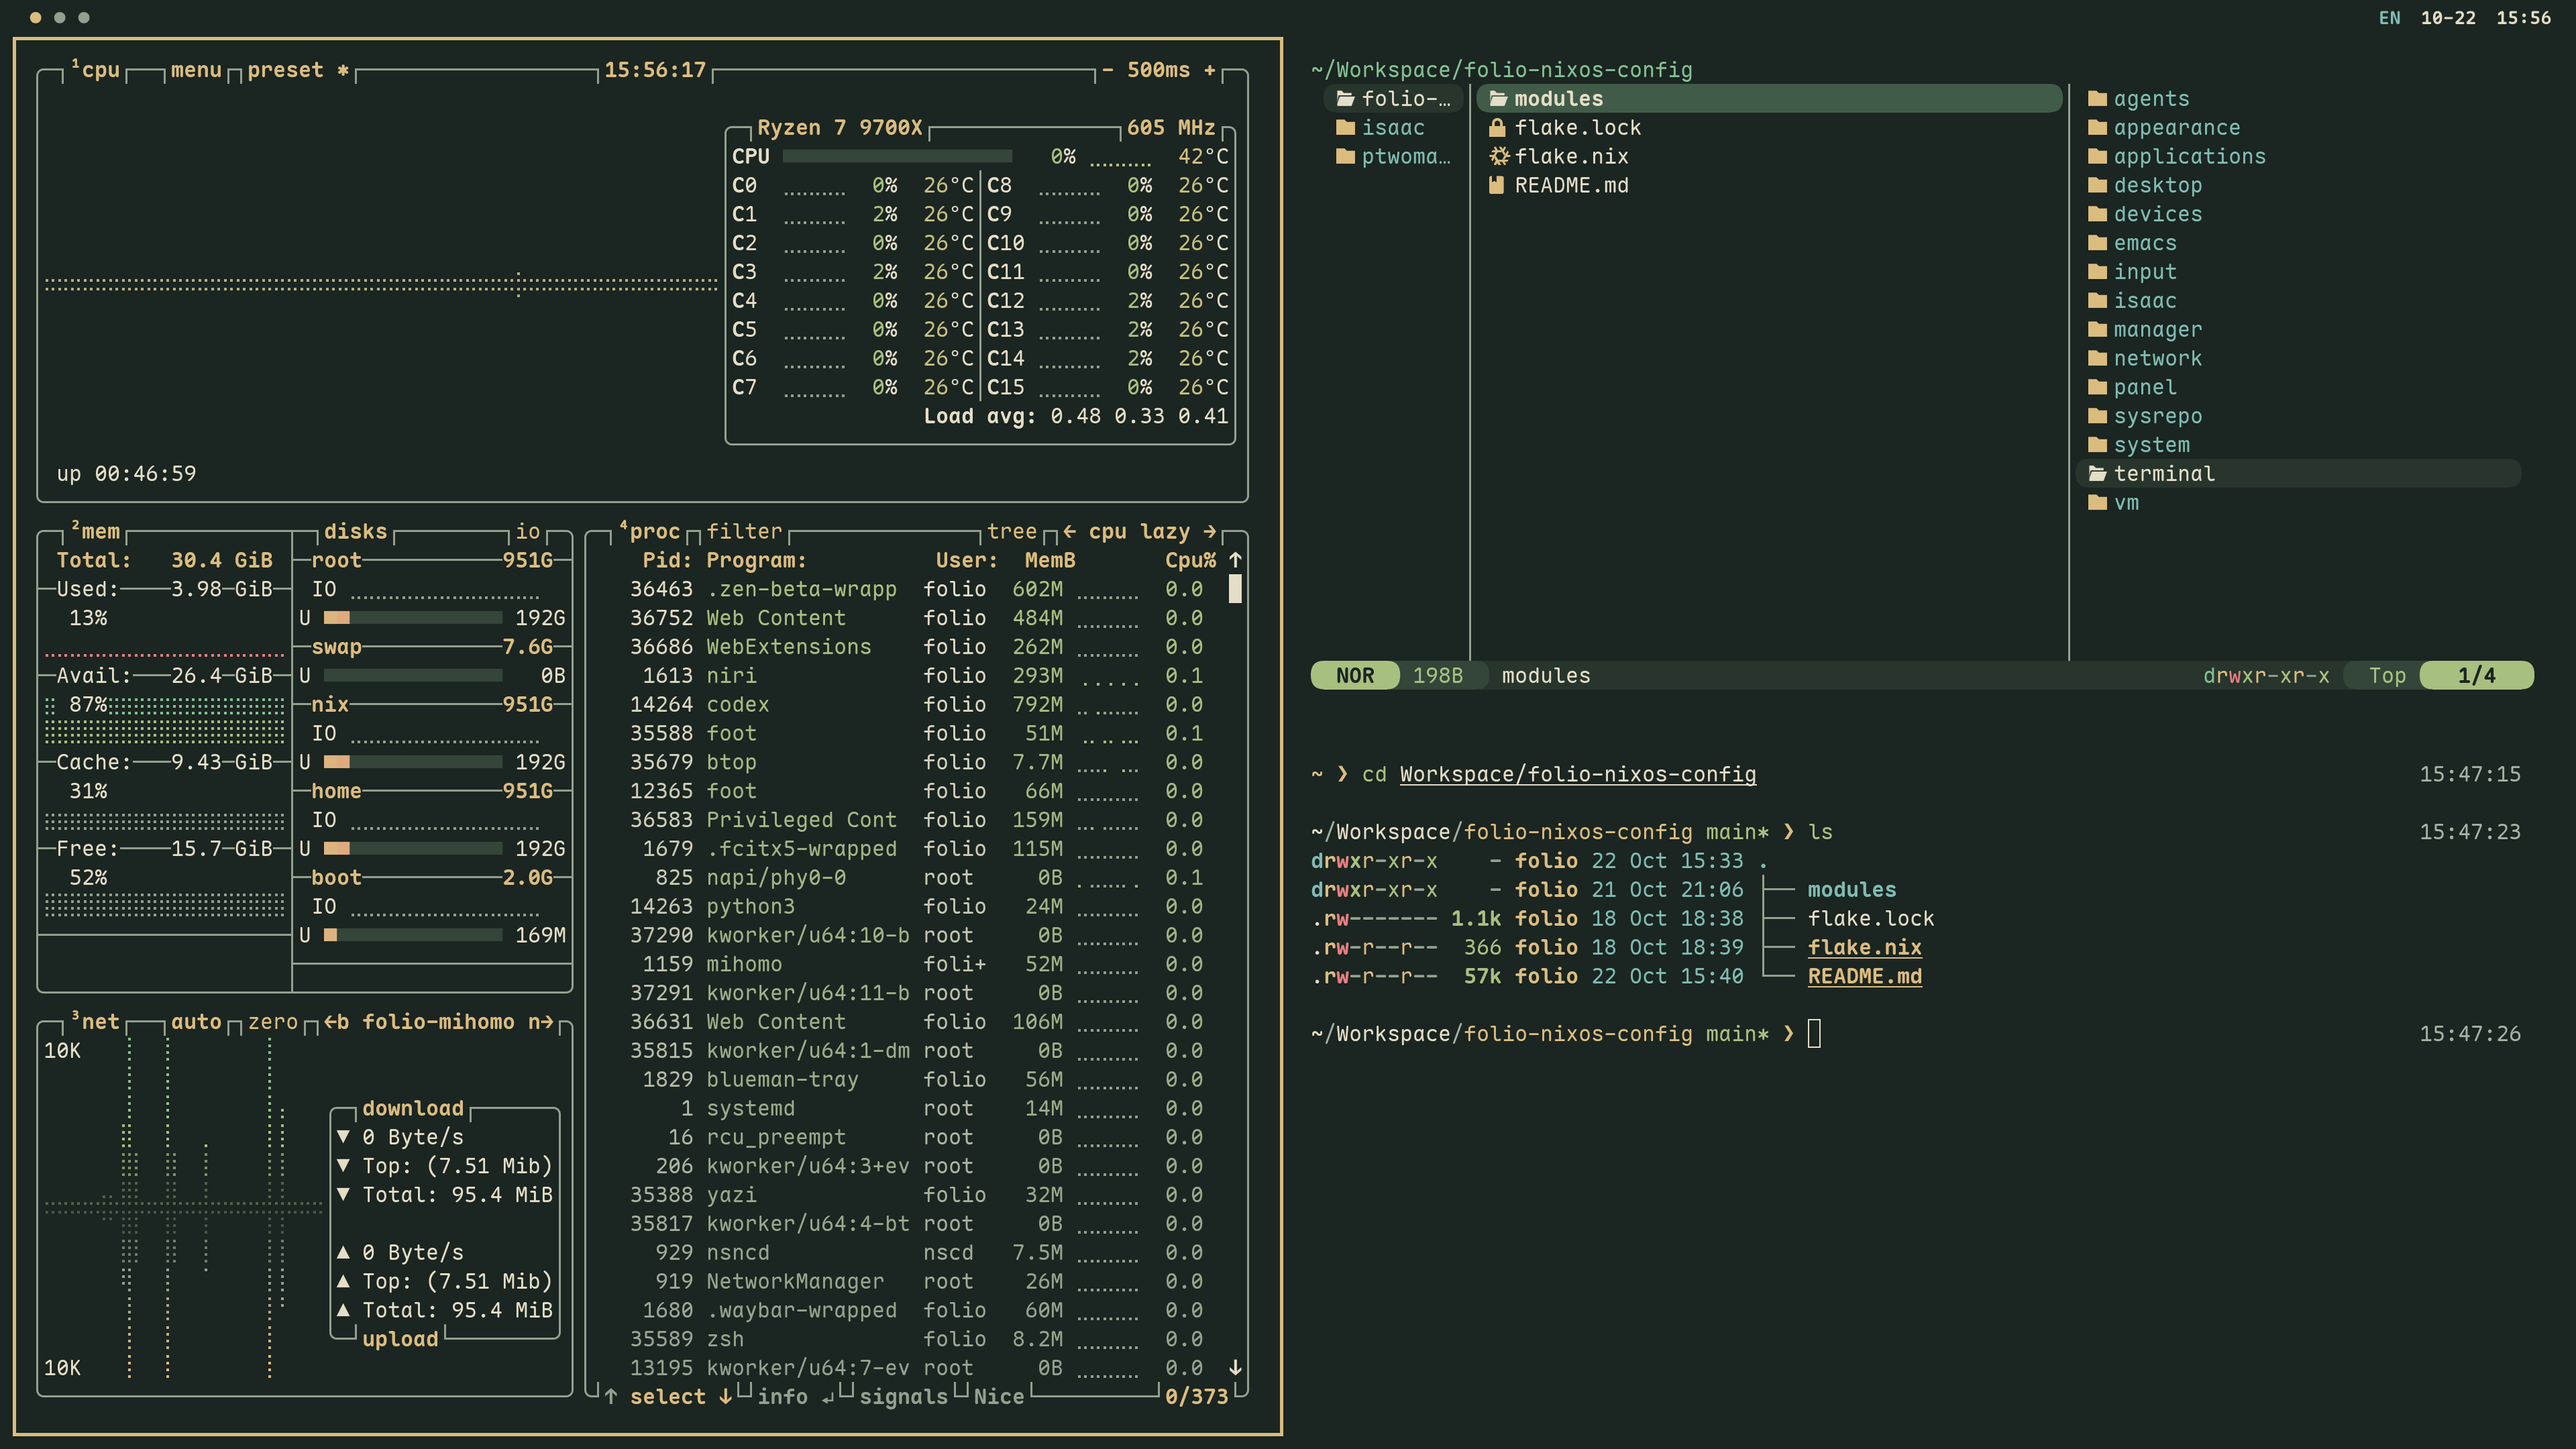
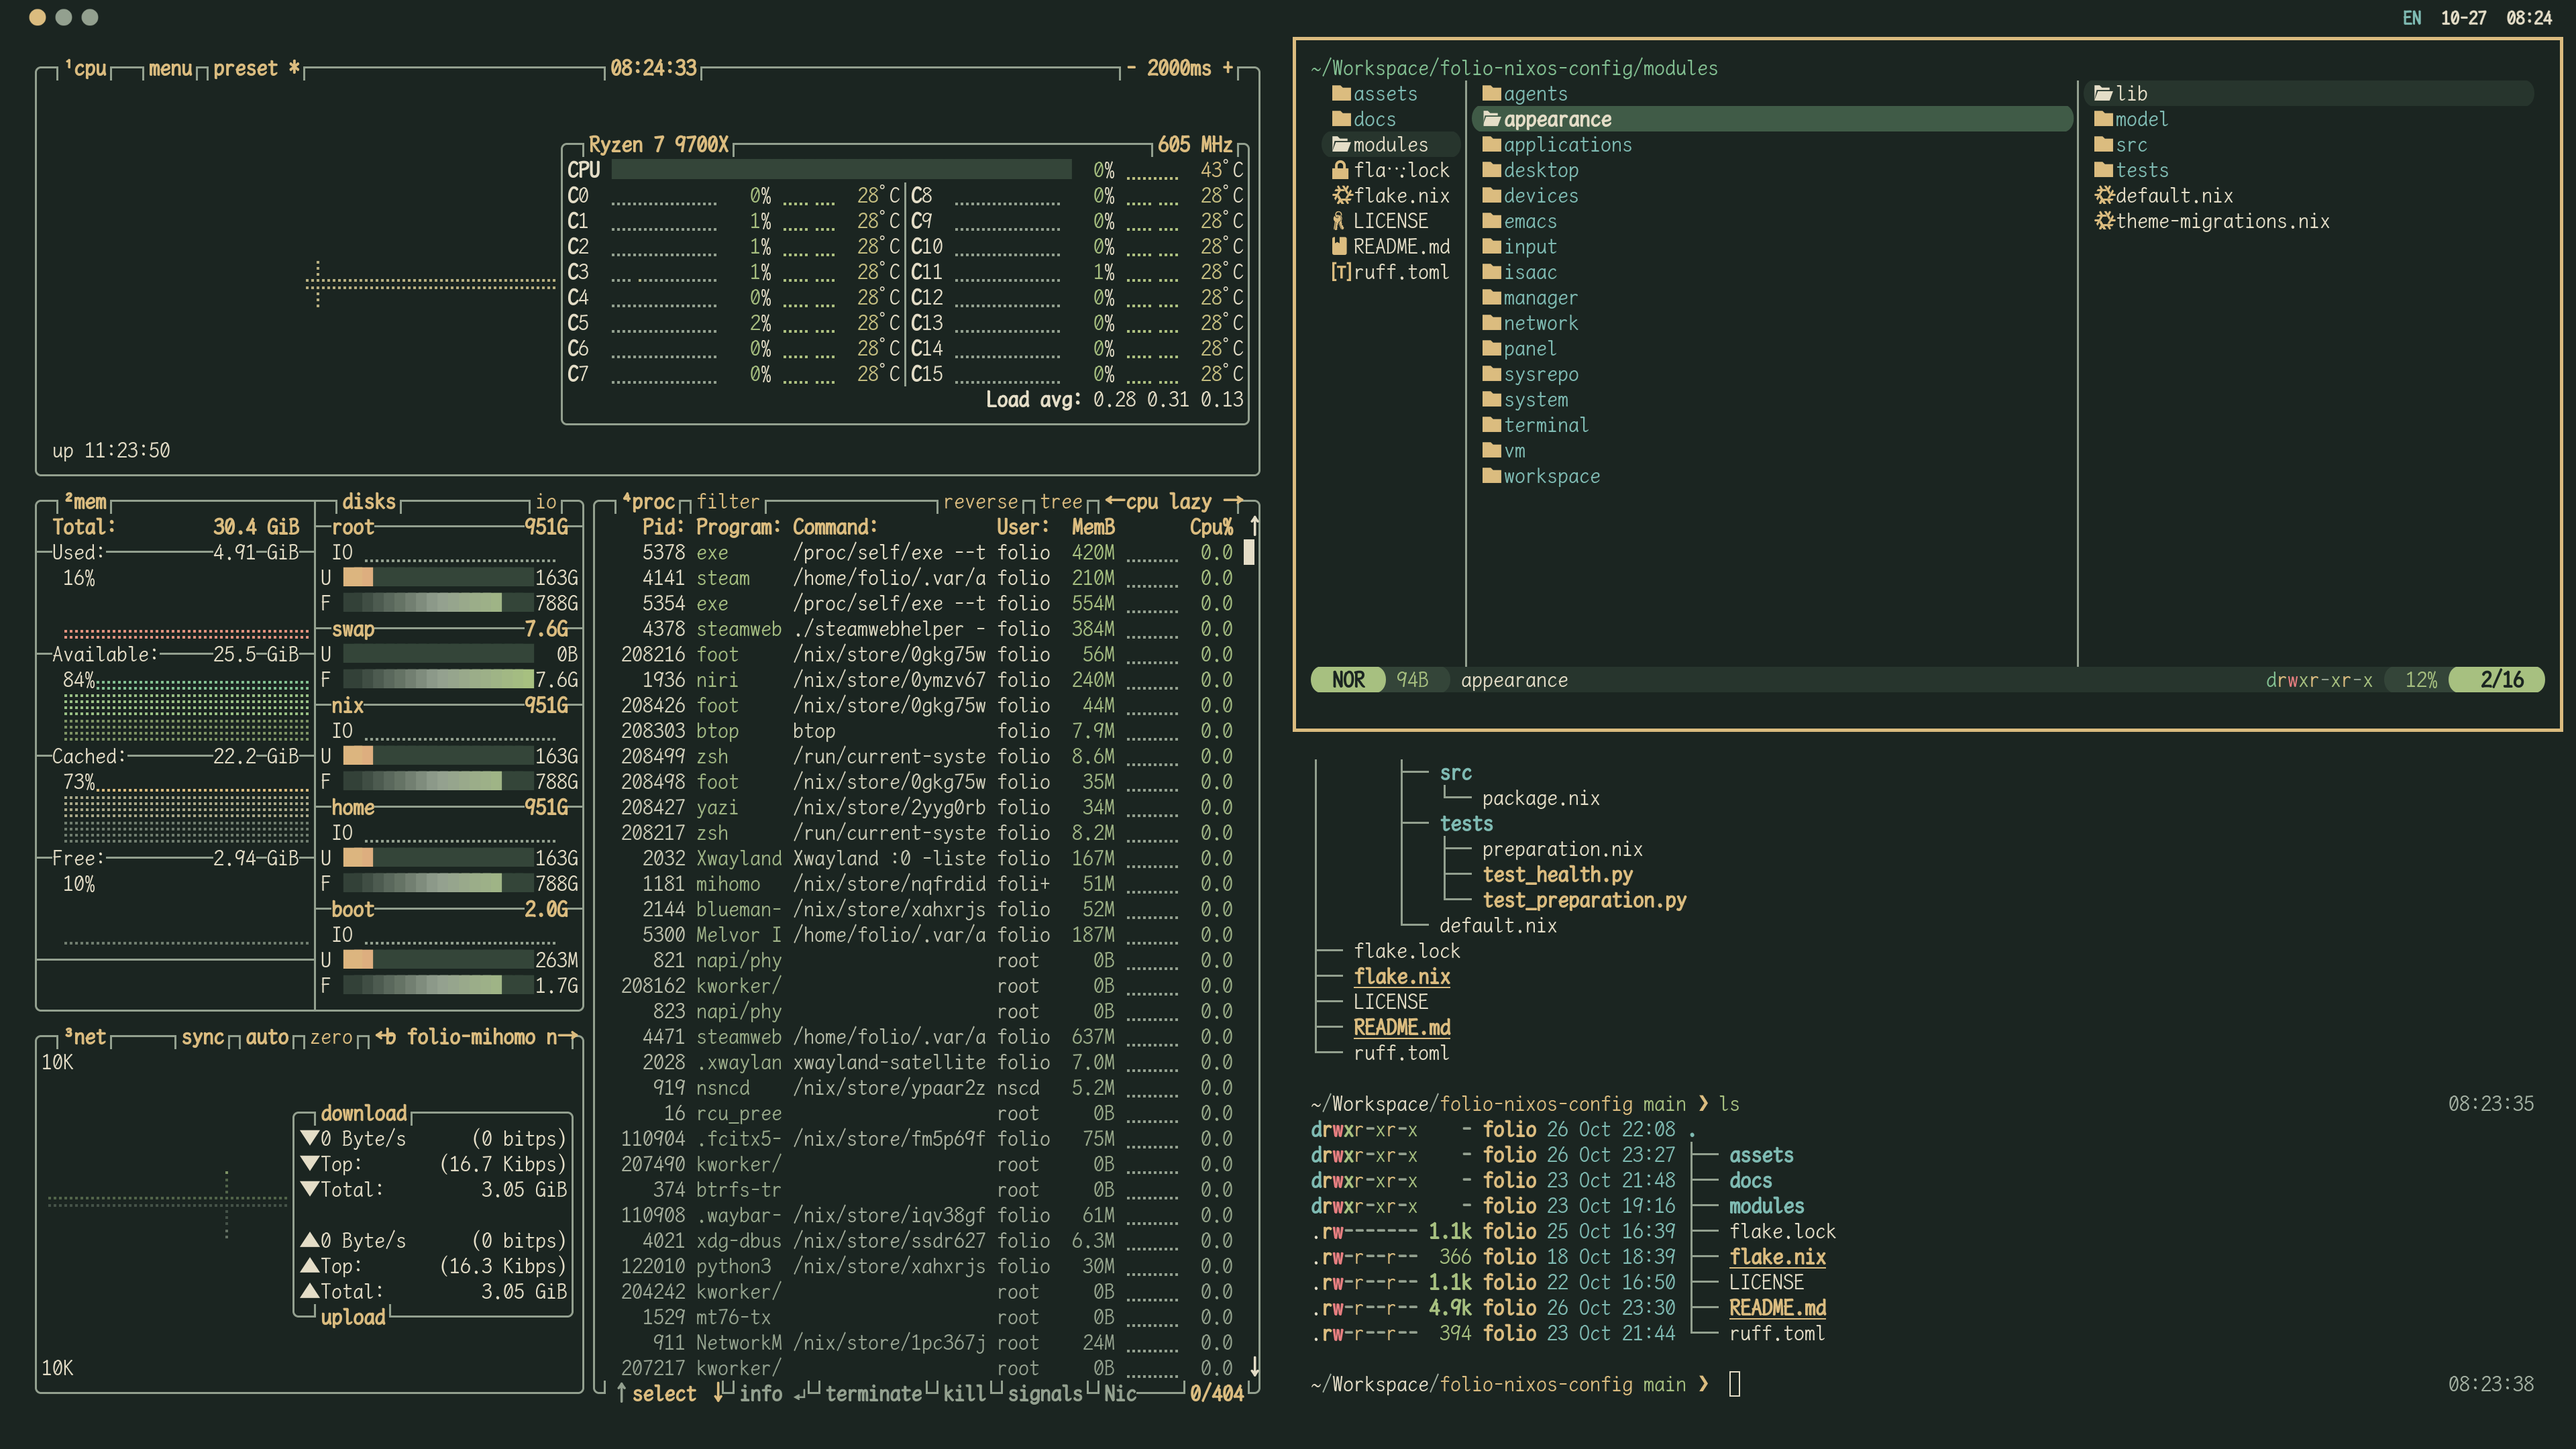
docs: refresh README copy and WenKai desktop preview
Use the October 27 screenshot with LXGW WenKai Mono GB and update its caption and asset record. Refine the Chinese overview, project history and feature descriptions.

diff --git a/README.md b/README.md
@@ -2,7 +2,7 @@
 
 # Folio
 
-**为日常使用打磨的个人 NixOS 桌面。**
+**一份为日常使用而打磨的个人 NixOS 桌面配置。**
 
 ![NixOS](assets/badges/nixos.svg)
 ![Home Manager](assets/badges/home-manager.svg)
@@ -15,38 +15,28 @@
 
 [![Folio 桌面预览：Everforest 深色主题下的 Btop、Yazi 与 Foot 终端](assets/screenshots/everforest-dark-desktop.png)](assets/screenshots/everforest-dark-desktop.png)
 
-<p align="center"><sub>Everforest 深色 · Niri · Foot · Yazi · Btop<br>截图摄于 2026-10-22，使用 Maple Mono NF CN 字体。点击图片查看原图。</sub></p>
+<p align="center"><sub>Everforest 深色 · Niri · Foot · Yazi · Btop<br>截图摄于 2026-10-27，字体为霞鹜文楷等宽 GB。点击图片可查看原图。</sub></p>
 
-Folio 是我日常使用的 NixOS 与独立 Home Manager 配置，面向 `x86_64-linux`。
-这个仓库记录了我的桌面选型、使用习惯，以及持续调整中的取舍，供参考和按需借鉴。
+Folio 是我每天在用的 NixOS 与独立 Home Manager 配置，面向 `x86_64-linux`。
+仓库里记录了桌面选型、使用习惯，以及一路调整中做过的取舍，供参考借鉴。
 
 ## 项目演进
 
-**最初 · 单文件配置**：所有设置都写在一个 Nix 文件里。起步简单，内容增多后，查找和维护逐渐变得困难。
-
-**Koru · 每个应用一个文件**：[Koru](https://github.com/WallyHao/koru-nixos-dotfiles) 是我的第一次模块化尝试。目录更清晰了，但复杂应用的配置仍会积累成一个大文件。
-
-**Sylphy · 每个应用一个小项目**：配置、脚本和资源各有归属，也有了更严格的维护约定。不过，添加模块的成本越来越高，我最终放弃了这个项目。
-
-**Folio · 重新寻找平衡**：保留清晰、一致的维护约定，把更多精力放在统一外观、工具搭配和日常操作上，逐步完善命令行与本地控制面板。
+Folio 是试错试出来的。最初所有设置都挤在一个 Nix 文件里，起步省事，可内容一多，查找和维护就成了负担。后来我写了 [Koru](https://github.com/WallyHao/koru-nixos-dotfiles)，把配置按应用拆成一个个文件，目录清楚了不少，但复杂应用的配置很快又会堆成一个大文件。再往后的 Sylphy 走得更远，让每个应用都成为独立小项目，配置、脚本和资源各归各处，维护约定也更严格——代价是新增模块越来越费劲，最后还是放弃了。几次折腾下来，想要的东西反而清楚了：既要长期管得住，又不能让每加一个模块都先付出很大代价。Folio 就是在两者之间重新找平衡，把大部分精力放回统一外观、工具搭配和日常操作上，命令行与本地控制面板也一点点补齐。
 
 ## 核心特点
 
-| 特点 | 日常使用 |
-| --- | --- |
-| **统一外观** | 一次选择主题，桌面、终端与受管理应用使用一致的配色。 |
-| **配置校验** | 保存设置时检查类型与约束，部署前审阅变更。 |
-| **部署记录** | 构建与应用过程留有记录，便于检查进度、继续执行和回滚。 |
-| **本地控制** | 通过命令行与面板管理 Wi-Fi、代理、音量、亮度和常用设置。 |
-| **应用安装** | 在面板中搜索、安装 Flathub 应用，无需重新构建系统；卸载时保留个人数据。 |
-| **移动使用** | 同一套 USB 安装在我的笔记本与主机之间切换，另有一次性虚拟机用于验证改动。 |
+- **统一外观**：桌面、终端和受管应用引用同一套配色，换主题时一起切换，不必逐个调整。
+- **软件安装更省事**：常用应用交给 Flatpak 管理，在面板里搜索即可安装，卸载时保留个人数据，也不用为加个应用重新构建系统。
+- **按功能模块化**：每项功能自带模型、实现、运行时和测试，规范约束与可扩展性之间保持平衡，改一处不影响别处。
+- **一体化配置管理**：用户与系统的配置改动统一管理，保存时校验、部署前审阅、过程留档，系统重构由工具接手，使用者只需关心自己想要什么。
 
 ## 桌面环境
 
-桌面采用 **Niri** 的滚动布局，默认使用 **霞鹜文楷等宽 GB**（`LXGW WenKai Mono GB`），兼顾中英文混排。
+桌面基于 **Niri** 的滚动布局，默认字体为 **霞鹜文楷等宽 GB**（`LXGW WenKai Mono GB`），中英文混排更协调。
 
-**Everforest** 与 **Folio Graphite** 均提供深色和浅色配色。
-窗口焦点边框、光标、状态栏、通知与面板随主题统一调整；预览图使用经过对比度调整的 Everforest 深色主题。
+**Everforest** 与 **Folio Graphite** 各提供深色和浅色两套配色。
+焦点边框、光标、状态栏、通知与面板都会随主题同步变化；预览图用的是经过对比度调整的 Everforest 深色主题。
 
 <details>
 <summary><strong>桌面组件与工具选型</strong></summary>
@@ -69,23 +59,23 @@ Folio 是我日常使用的 NixOS 与独立 Home Manager 配置，面向 `x86_64
 
 </details>
 
-组件按配置选择安装，个人资料、凭据、笔记与会话由各应用管理。
+组件按配置需要安装；个人资料、凭据、笔记和会话则交给各应用自行管理。
 
 ## 当前局限
 
-- **硬件适配**：主要用于我的笔记本与主机。迁移到其他设备前，需要调整磁盘标识、账户及硬件设置。
-- **开发工具链**：组织与维护方式尚未定型，完整的开发环境仍在整理中。
+- **硬件适配**：主要针对我自己的笔记本和主机。换到其他设备前，需要调整磁盘标识、账户与硬件设置。
+- **开发工具链**：组织与维护方式尚未定型，完整的开发环境仍在整理。
 - **编辑器配置**：Neovim 已接入统一主题与常用语言服务，笔记和项目工作流仍在完善。
-- **验证范围**：构建与虚拟机检查之外，显卡、无线网络和休眠等功能仍需在实体设备上验证。
+- **验证范围**：除构建和虚拟机检查外，显卡、无线网络与休眠等功能仍需在实机上验证。
 
 ## 参考资料
 
 - [配置与开发指南](docs/development.md)：配置入口、开发约定与检查方式。
-- [技术参考](docs/reference.md)：详细操作、部署与维护说明。
+- [技术参考](docs/reference.md)：详细的操作、部署与维护说明。
 - [Koru](https://github.com/WallyHao/koru-nixos-dotfiles)：我的早期配置，也是 README 排版与 Neovim 配色的参考。
-- [霞鹜文楷 GB](https://github.com/lxgw/LxgwWenKaiGB)：当前默认字体的上游项目。
-- [Flatpak](https://flatpak.org/)：用于安装和管理桌面应用，与 Nix 原生软件配合使用。
+- [霞鹜文楷 GB](https://github.com/lxgw/LxgwWenKaiGB)：默认字体的上游项目。
+- [Flatpak](https://flatpak.org/)：用来安装和管理桌面应用，与 Nix 原生软件配合使用。
 
 ---
 
-<p align="center"><sub>原创代码与文档采用 <a href="LICENSE">MIT 许可证</a>；第三方代码与资源保留各自的许可证及声明。</sub></p>
+<p align="center"><sub>原创代码与文档采用 <a href="LICENSE">MIT 许可证</a>；第三方代码与资源遵循各自的许可证及声明。</sub></p>

diff --git a/assets/screenshots/README.md b/assets/screenshots/README.md
@@ -4,7 +4,7 @@ Desktop previews used by the repository README.
 
 | File | Contents |
 | --- | --- |
-| [everforest-dark-desktop.png](everforest-dark-desktop.png) | Everforest Dark desktop with Niri, Btop, Yazi and Foot; captured on 2026-10-22. |
+| [everforest-dark-desktop.png](everforest-dark-desktop.png) | Everforest Dark desktop with Niri, Btop, Yazi and Foot, using LXGW WenKai Mono GB; captured on 2026-10-27. |
 
 Use lowercase kebab-case filenames: `<scheme>-<mode>-<view>.png`.
 Name the view by its contents, for example `desktop`, `launcher` or `panel`.
